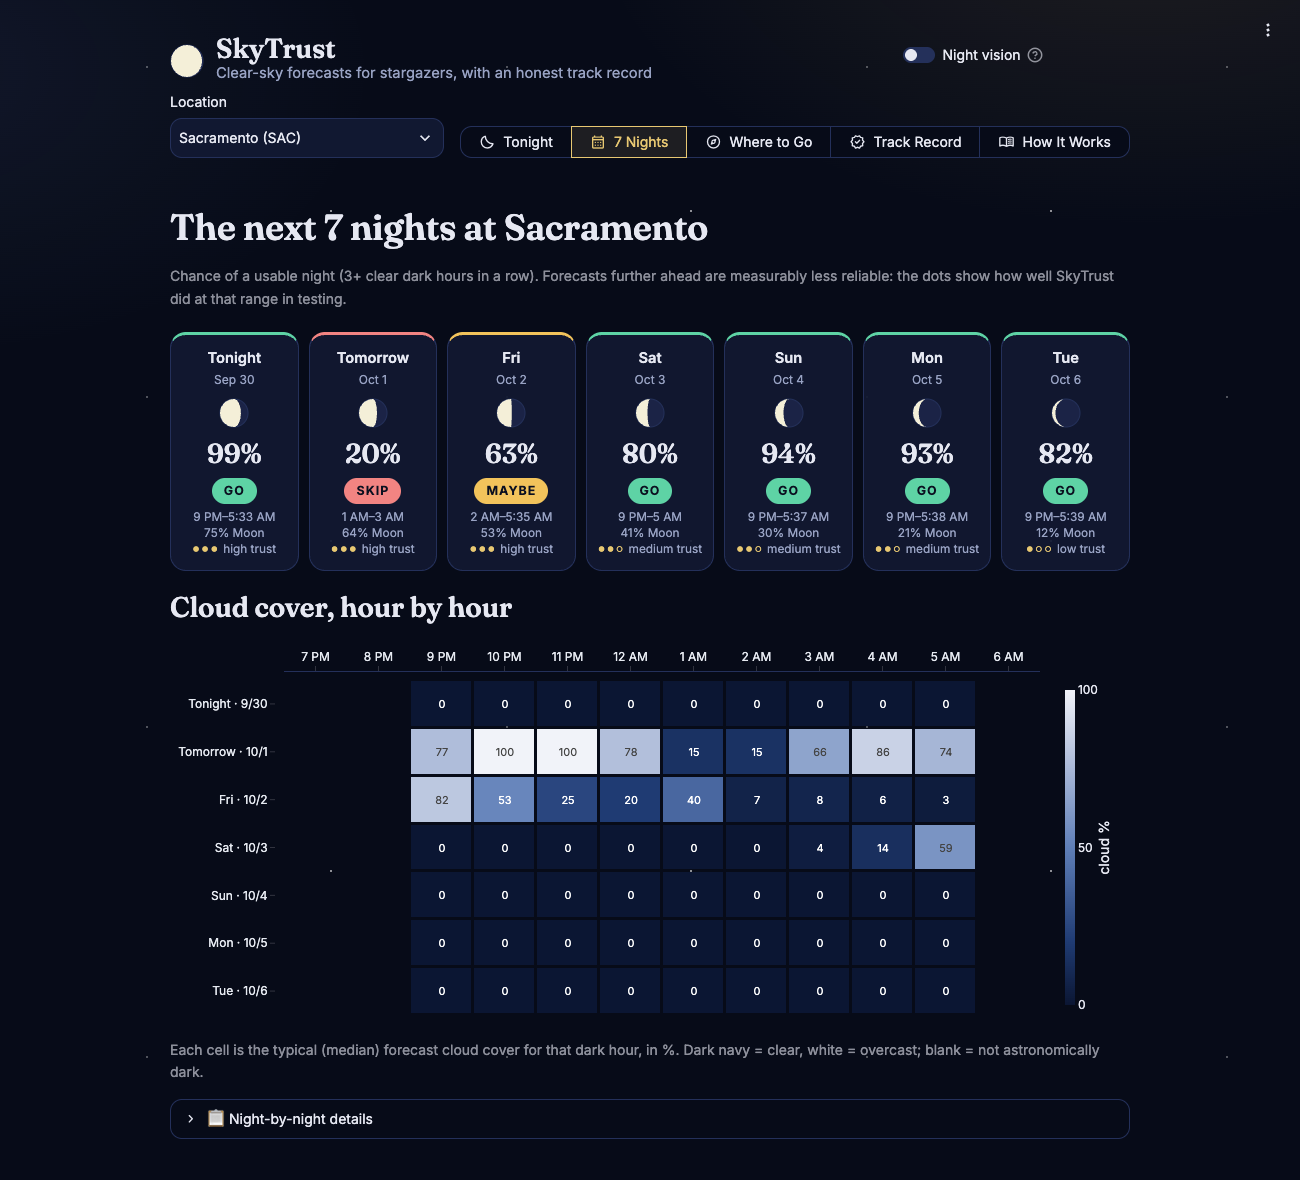
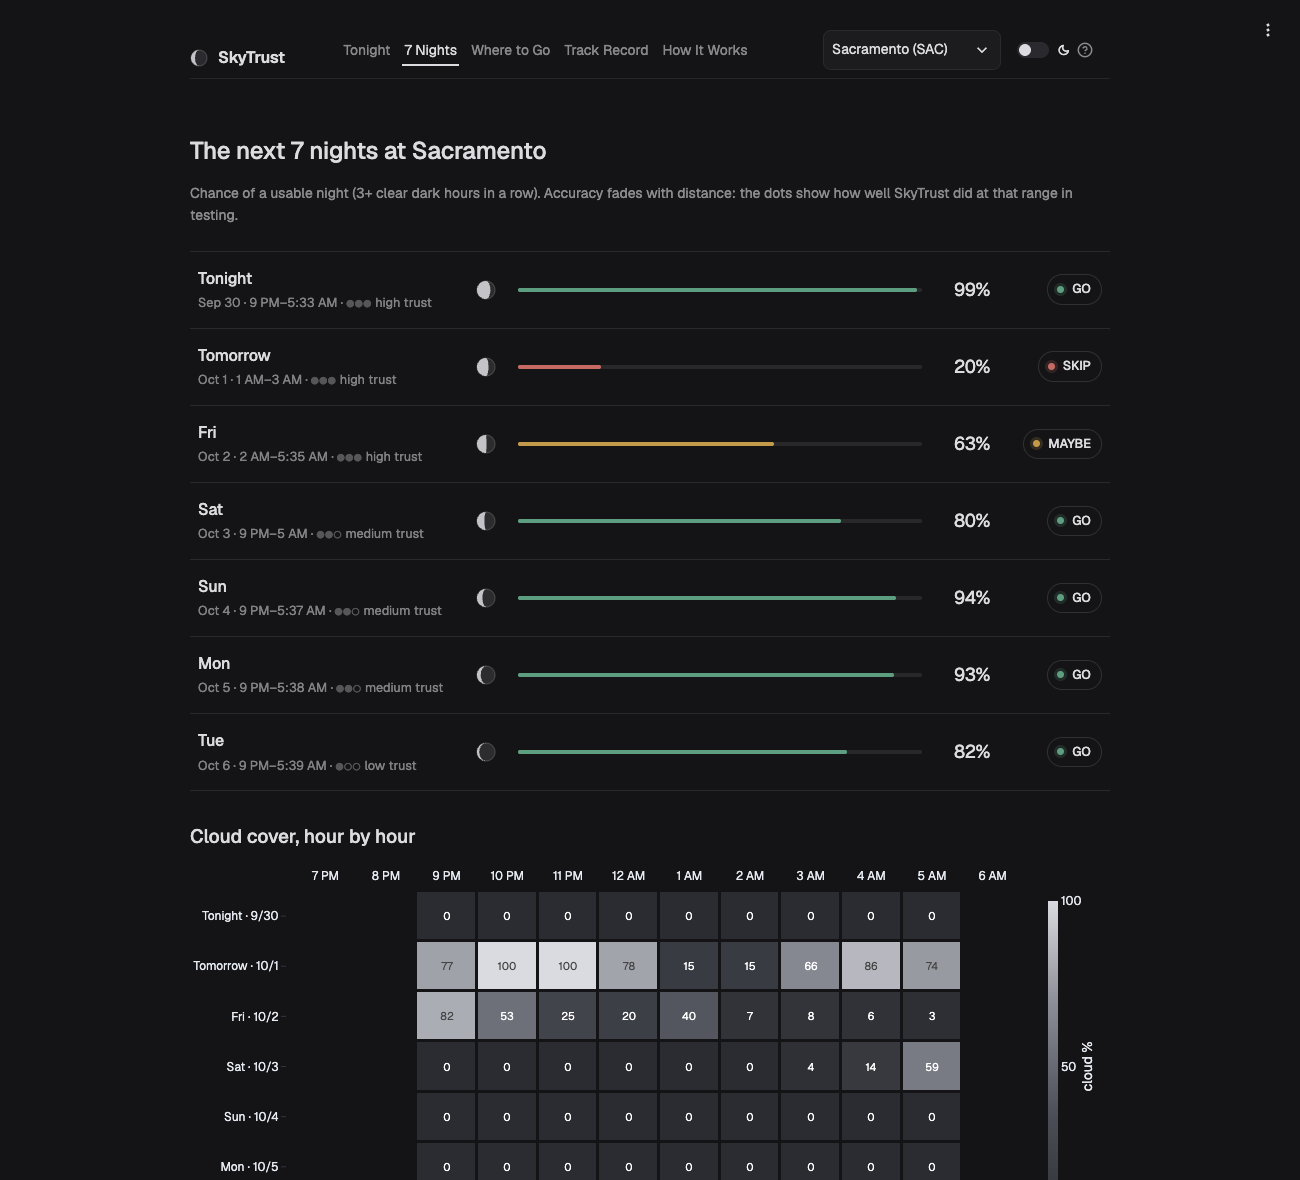
Docs and screenshots for the Observatory design system

diff --git a/docs/DECISIONS.md b/docs/DECISIONS.md
@@ -432,3 +432,26 @@ Hiten asked for the path that is easiest to understand and gives the most consis
 - **Night vision:** every custom element reads CSS variables, and the few Streamlit widget parts
   that use the theme's gold are recoloured, verified by counting gold elements in a headless
   browser (0).
+
+### 2026-09-30 · "Observatory" design system (replaces the Moonlight theme)
+- **Why:** Hiten found the navy-and-mint theme unprofessional and "AI-generated". Research backs
+  that up: the widely cited AI-UI tells are Inter everywhere, blue/indigo on dark navy, glowing
+  borders, gradients on every card, identical card grids and emoji decoration, several of which
+  the Moonlight theme had.
+- **References studied:** Vercel's Geist (disciplined monochrome, near-black ink on near-white,
+  hairline borders, colour only for interaction), Linear's 2025 refresh (fewer colours, neutral
+  structure, three theme variables), dark-UI guidance (no pure black, lighter surfaces for
+  elevation, desaturated accents), Apple Weather's list layout, and Emil Kowalski's published
+  animation standards.
+- **What changed:** soft graphite/paper themes that follow the viewer's system setting
+  (`[theme.dark]` / `[theme.light]`); Geist + Geist Mono; status as a small muted dot
+  (sage/ochre/clay), never a large fill; hairline-divided strips and list rows instead of boxed
+  cards; a sticky top bar with underline tabs; neutral info notes; expanders as an accordion.
+  Every custom colour derives from `currentColor`, so the same HTML is correct in light, dark and
+  night vision (Streamlit can't reliably tell the app which theme is showing on first load).
+- **Motion:** content rises in (transform + opacity only, `cubic-bezier(0.23, 1, 0.32, 1)`,
+  30–60 ms stagger), probability bars grow from the left, rows respond to hover on mouse devices
+  only, sections reveal on scroll where supported, and `prefers-reduced-motion` keeps only fades.
+- **Also fixed:** two containers shared the key `panel` (custom location + Tonight would have
+  raised a duplicate-key error); the pinned top bar took a quarter of a phone screen (now pinned
+  only on wider screens); inline code rendered green.

diff --git a/docs/LEARNING.md b/docs/LEARNING.md
@@ -753,6 +753,12 @@ none says how accurate it is.
   here") is more honest and more useful than a yes/no icon.
 - **Design tokens:** colours live in one palette and are exposed as CSS variables, so a whole
   theme (like night vision) is a swap of one dictionary.
+- **Colours derived from `currentColor`:** borders, surfaces and secondary text are mixes of the
+  text colour (11%, 4%, 60%), so one stylesheet works in light and dark themes without knowing
+  which one is active.
+- **Restraint reads as quality:** the redesign removed things (gradients, glows, boxes, emoji) and
+  kept colour for meaning only. Research on why interfaces look "AI-generated" says the defaults
+  are the tell, so each choice was made deliberately.
 - **Verify the UI like code:** headless-browser screenshots at desktop and phone width caught
   bugs no unit test would (labels hiding each other, navigation off-screen on phones).
 
